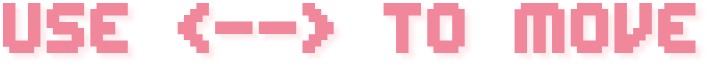
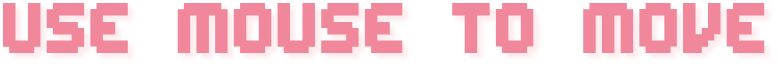
updated menu instruc

diff --git a/src/scenes/Menu.js b/src/scenes/Menu.js
@@ -5,9 +5,10 @@ class Menu extends Phaser.Scene {
     preload() {
       this.load.image('title', './assets/gametitle.png');
       this.load.image('start', './assets/start.png');
-      this.load.image('control1', './assets/controls1.png');
-      this.load.image('control2', './assets/controls2.png');
-      this.load.image('t', './assets/t.png');
+      this.load.image('control', './assets/control.png');
+      //this.load.image('control1', './assets/controls1.png');
+      //this.load.image('control2', './assets/controls2.png');
+      this.load.image('instruc', './assets/instruc.png');
 
       this.load.image('cake', './assets/cake.png');
       this.load.image('watermelon', './assets/watermelon.png');
@@ -29,28 +30,26 @@ class Menu extends Phaser.Scene {
       this.title = this.add.sprite(game.config.width/2, 90, 'title');
       this.title.setScale(0.8);
 
-      this.control1 = this.add.image(game.config.width/2, 235, 'control1');
-      this.control1.setScale(0.65);
-      this.control2 = this.add.image(game.config.width/2, 275, 'control2');
-      this.control2.setScale(0.65);
+      this.control = this.add.image(game.config.width/2, 235, 'control');
+      this.control.setScale(0.65);
+      //this.control2 = this.add.image(game.config.width/2, 275, 'control2');
+      //this.control2.setScale(0.65);
 
-      this.start = this.add.image(game.config.width/2, 325, 'start');
+      this.start = this.add.image(game.config.width/2, 305, 'start');
       this.start.setScale(0.65);
 
-      this.tut = this.add.image(game.config.width/2, 455, 't');
-      this.tut.setScale(0.65);
+      this.tut = this.add.image(game.config.width/2, 445, 'instruc');
+      this.tut.setScale(0.52);
 
       this.cake = this.add.image(570, 150, 'cake');
       this.cake.setScale(1.1);
 
-      this.sandwhich = this.add.image(100, 390, 'sandwhich');
+      this.sandwhich = this.add.image(100, 370, 'sandwhich');
       this.sandwhich.setScale(0.5);
 
       this.watermelon = this.add.image(620, 510, 'watermelon');
       this.watermelon.setScale(0.5);
 
-      //this.add.bitmapText(game.config.width/2, game.config.height/2, 'gem', 'High Score:', 64).setOrigin(0.5).setTint(0xff0000);
-      //this.add.bitmapText(game.config.width/2, game.config.height/2, 'gem', 'High Score:', 64).setOrigin(0.5).setTint(0xff00ff).setBlendMode('SCREEN');
       // menu text configuration
       let menuConfig = {
         fontFamily: 'Sigmar',
@@ -67,9 +66,7 @@ class Menu extends Phaser.Scene {
         },
         fixedWidth: 0
       }
-      //this.add.text(20, 20, "Rocket Patrol Menu");
-      //this.scene.start("playScene");
-
+      
       // show menu text
       //this.add.text(game.config.width/2, game.config.height/2 - borderUISize - borderPadding - 90, 'ROCKET PATROL', menuConfig).setOrigin(0.5);
       

diff --git a/src/scenes/Play.js b/src/scenes/Play.js
@@ -47,13 +47,14 @@ class Play extends Phaser.Scene {
       this.p1Rocket = new Rocket(this, 20 + borderPadding, game.config.height - borderUISize - borderPadding, 'avatar1').setOrigin(0, 0);
       this.p1Rocket.setScale(0.8);
 
-      const bug1 = this.add.image(200,200,'bug').setScale(0.5);
+      const bug1 = this.add.image(100,200,'bug').setScale(0.5);
+      const bug2 = this.add.image(150,300,'bug').setScale(0.5);
       // add spaceships (x4)
       this.ship01 = new Spaceship(this, game.config.width + borderUISize*6, borderUISize*4 + 35, 'cake', 0, 30).setOrigin(0, 0);
       this.ship01.setScale(0.7);
       this.ship02 = new Spaceship(this, game.config.width + borderUISize*3, borderUISize*5 + borderPadding*2 + 20, 'cookie', 0, 20).setOrigin(0,0);
       this.ship02.setScale(0.5);
-      this.ship03 = new Spaceship(this, game.config.width - 400, borderUISize*6 + borderPadding*4 + 18, 'bug', 0, 10).setOrigin(0,0);
+      this.ship03 = new Spaceship(this, game.config.width, borderUISize*6 + borderPadding*4 + 18, 'bug', 0, 10).setOrigin(0,0);
       this.ship03.setScale(0.5);
 
       this.ship04 = new Spaceship(this, game.config.width + borderUISize*6 + 45, borderUISize*4 - 45, 'sandwhich', 0, 40).setOrigin(0,0);
@@ -64,7 +65,7 @@ class Play extends Phaser.Scene {
       this.watermelon.setScale(0.5);
 
       this.tweens.add({
-        targets: [ bug1 ],
+        targets: [ bug1, bug2 ],
         x: 600,
         yoyo: true,
         duration: 1500,
